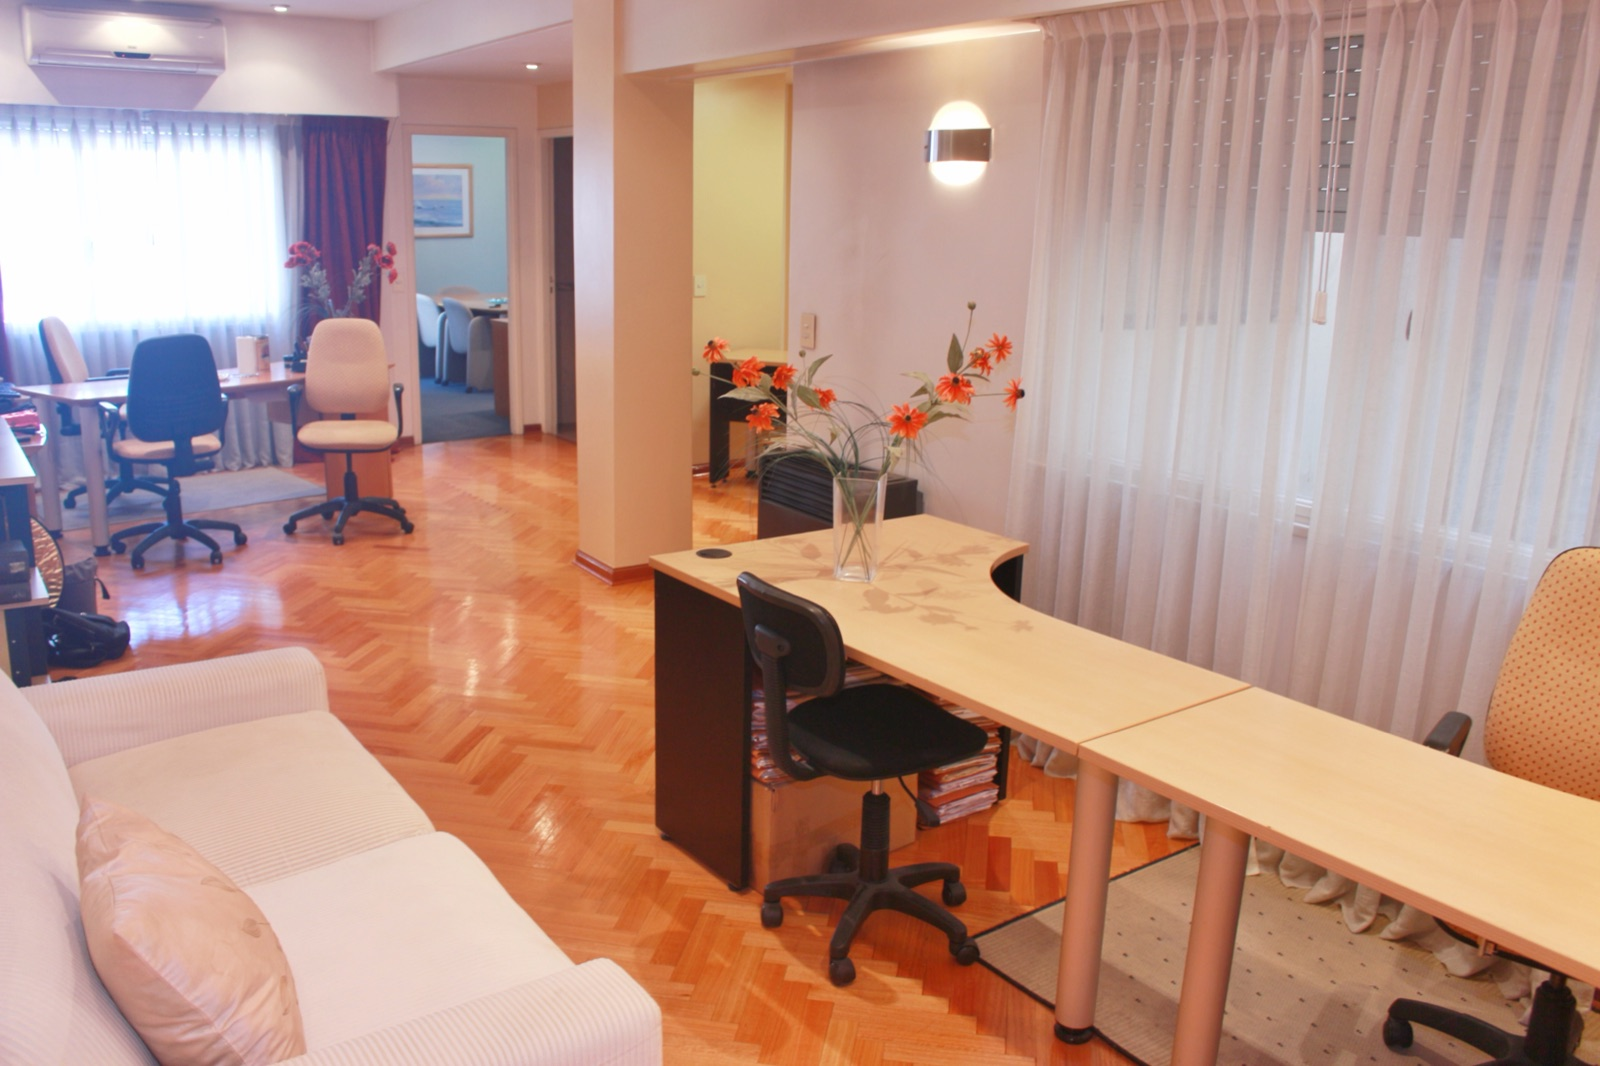
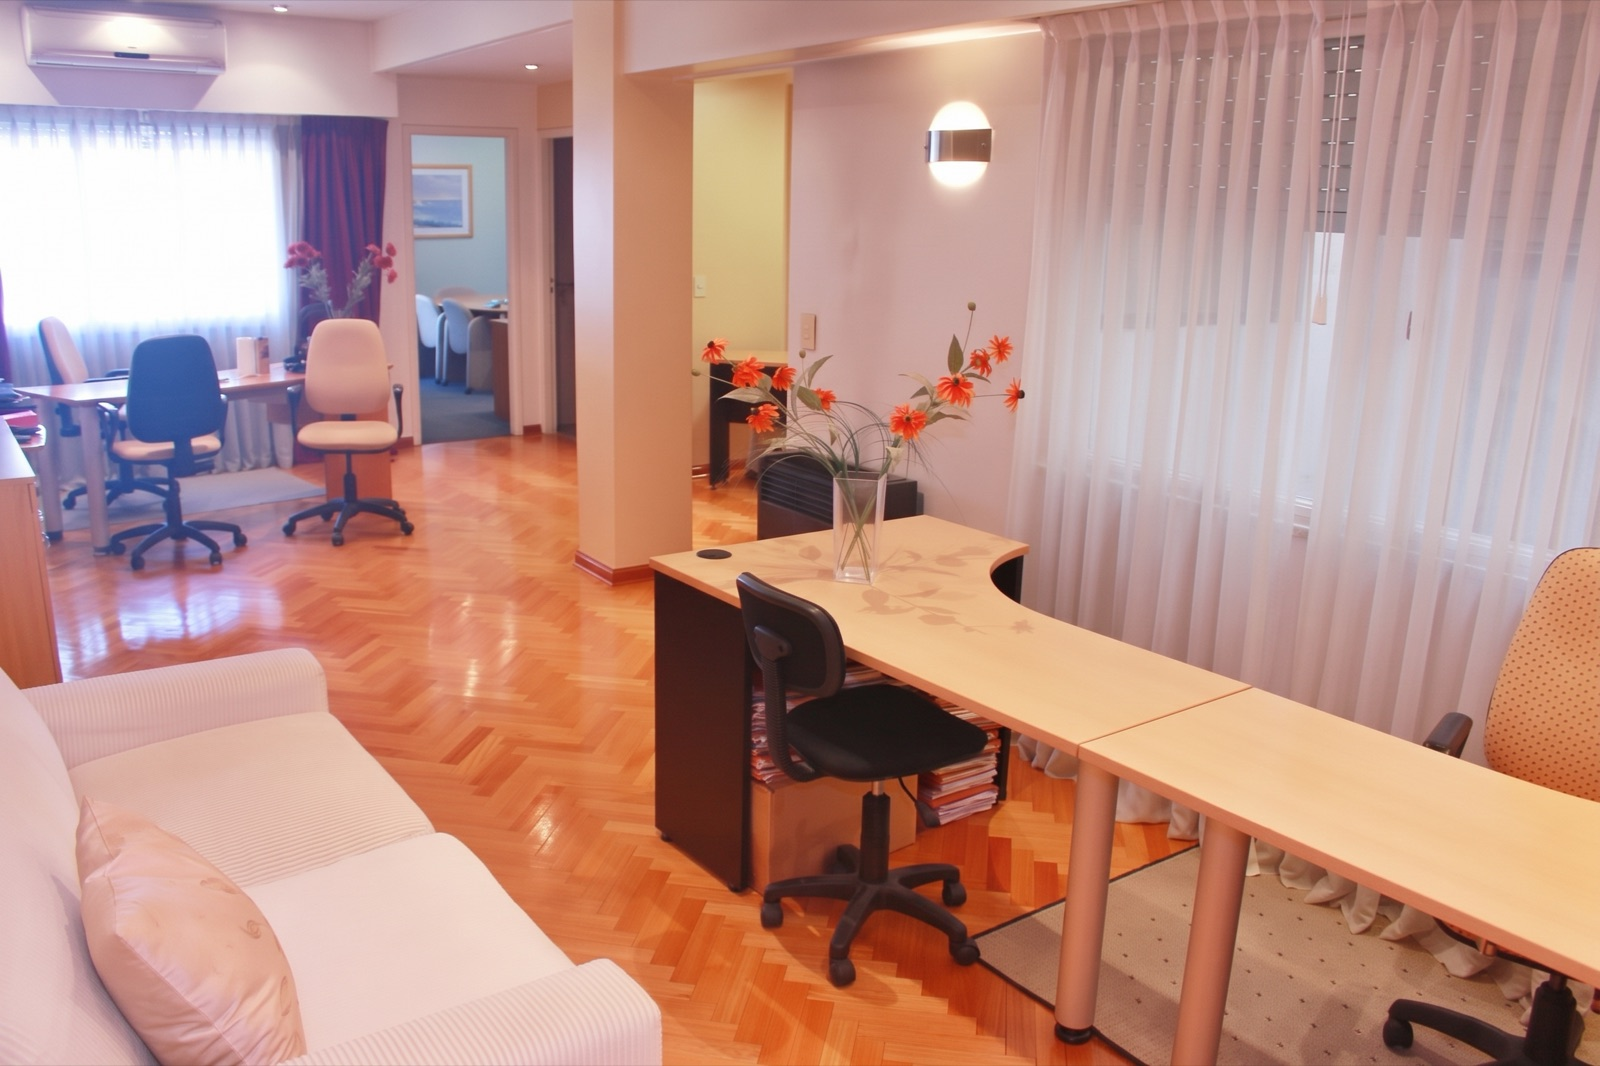
Estudio Ali B: cambios pedidos por Marcela
- La credencial del hero deja de flotar sobre la foto: va debajo con
  filete ambar, como en la A
- La foto con la colaboradora se reemplaza por la reunion de los tres
  (version retocada que mando ella)
- Foto del estudio reemplazada por la version retocada
- Fuera la sede de Calle 10 4719, Berazategui (en A y B)
Pendiente: el celular, para sacar el fijo.

diff --git a/demos/estudio-ali/b/index.html b/demos/estudio-ali/b/index.html
@@ -5,7 +5,7 @@
 <meta name="viewport" content="width=device-width, initial-scale=1.0">
 <meta name="robots" content="noindex, nofollow">
 <title>Estudio Ali & Asociados · Abogados laboralistas · Propuesta B</title>
-<meta name="description" content="Estudio Jurídico Ali & Asociados, especializado en Derecho Laboral A.R.T. Protegiendo tus derechos laborales con experiencia y dedicación. Consultas gratuitas para los trabajadores. Lavalle 1546, CABA. Sedes en Sourigues y Berazategui.">
+<meta name="description" content="Estudio Jurídico Ali & Asociados, especializado en Derecho Laboral A.R.T. Protegiendo tus derechos laborales con experiencia y dedicación. Consultas gratuitas para los trabajadores. Lavalle 1546, CABA. Sedes en Sourigues.">
 <link rel="preconnect" href="https://fonts.googleapis.com">
 <link rel="preconnect" href="https://fonts.gstatic.com" crossorigin>
 <link href="https://fonts.googleapis.com/css2?family=Plus+Jakarta+Sans:wght@400;500;600;700;800&display=swap" rel="stylesheet">
@@ -204,7 +204,7 @@ footer.pie a{color:var(--ink);text-decoration:none}
   .wsp-flotante{width:58px;padding:0;justify-content:center}
 }
 .chat .cab .av{overflow:hidden}.chat .cab .av img{width:100%;height:100%;object-fit:cover}
-.sit .lista{font-size:14px;color:var(--verde-2);font-weight:600}.pasos-grid.sin-linea .paso::after{display:none}.chat-wrap .foto{max-width:460px;width:100%}
+.sit .lista{font-size:14px;color:var(--verde-2);font-weight:600}.pasos-grid.sin-linea .paso::after{display:none}.chat-wrap .foto{max-width:560px;width:100%;aspect-ratio:3/2}
 
 /* WhatsApp con su lenguaje propio: verde oficial #25D366 y glifo oficial.
    Texto casi negro sobre el verde para que se lea bien a los 60. */
@@ -245,12 +245,8 @@ footer.pie a{color:var(--ink);text-decoration:none}
 /* el recurso propio de esta propuesta: la credencial flotando sobre la foto */
 .hero-retrato{position:relative;margin:0}
 .hero-retrato img{width:100%;aspect-ratio:4/5;object-fit:cover;object-position:center 18%;display:block;border-radius:30px;box-shadow:0 26px 60px rgba(22,22,22,.16)}
-.hero-retrato figcaption{
-  position:absolute;left:18px;right:18px;bottom:18px;
-  background:rgba(255,255,255,.95);backdrop-filter:blur(8px);
-  border-radius:18px;padding:15px 20px;box-shadow:0 8px 26px rgba(22,22,22,.12);
-}
-.hero-retrato figcaption b{display:block;font-size:19px;font-weight:800;letter-spacing:-.02em}
+.hero-retrato figcaption{margin-top:16px;padding-top:14px;border-top:2px solid var(--ambar);text-align:left}
+.hero-retrato figcaption b{display:block;font-size:20px;font-weight:800;letter-spacing:-.02em;color:var(--tinta)}
 .hero-retrato figcaption span{display:block;margin-top:3px;font-size:14.5px;color:var(--gris)}
 @media(max-width:940px){
   .hero{grid-template-columns:1fr;gap:36px;padding:44px 0 40px}
@@ -259,7 +255,6 @@ footer.pie a{color:var(--ink);text-decoration:none}
 @media(max-width:600px){
   .hero-retrato{max-width:none;order:-1;margin-bottom:4px}
   .hero-retrato img{aspect-ratio:1;object-position:center 14%;border-radius:22px}
-  .hero-retrato figcaption{left:12px;right:12px;bottom:12px;padding:13px 16px}
   .hero-retrato figcaption b{font-size:17.5px}
 }
 </style>
@@ -280,7 +275,7 @@ footer.pie a{color:var(--ink);text-decoration:none}
     <h1>Protegiendo tus derechos laborales <span>con experiencia y dedicación.</span></h1>
     <p class="lead">Estudio Jurídico Ali &amp; Asociados, especializado en Derecho Laboral y A.R.T.</p>
     <div class="acciones"><a class="btn wsp" href="https://wa.me/541145690939?text=Hola%2C%20quiero%20hacer%20una%20consulta." target="_blank" rel="noopener"><svg viewBox="0 0 32 32"><path d="M16 3C9.4 3 4 8.3 4 14.9c0 2.1.6 4.1 1.6 5.9L4 29l8.4-1.6c1.7.9 3.6 1.4 5.6 1.4 6.6 0 12-5.3 12-11.9S22.6 3 16 3zm0 21.8c-1.8 0-3.5-.5-5-1.3l-.4-.2-5 1 1-4.8-.2-.4c-1-1.6-1.5-3.4-1.5-5.2 0-5.5 4.5-9.9 10-9.9s10 4.4 10 9.9-4.4 9.9-9.9 9.9zm5.5-7.4c-.3-.2-1.8-.9-2-1-.3-.1-.5-.2-.7.2-.2.3-.8 1-.9 1.2-.2.2-.3.2-.6.1-.3-.2-1.3-.5-2.4-1.5-.9-.8-1.5-1.8-1.7-2.1-.2-.3 0-.5.1-.6l.5-.5c.1-.2.2-.3.3-.5.1-.2 0-.4 0-.5l-1-2.3c-.2-.6-.5-.5-.7-.5h-.6c-.2 0-.5.1-.8.4-.3.3-1 1-1 2.5s1.1 2.9 1.2 3.1c.2.2 2.1 3.2 5.1 4.5.7.3 1.3.5 1.7.6.7.2 1.4.2 1.9.1.6-.1 1.8-.7 2-1.4.3-.7.3-1.3.2-1.4-.1-.1-.3-.2-.6-.4z"/></svg>Escribir por WhatsApp</a><span class="o">o llamá al <a href="tel:+541145690939">(011) 4569-0939</a></span></div>
-    <div class="chips"><span class="chip"><i></i>Total confidencialidad</span><span class="chip"><i></i>Más de 30 años</span><span class="chip"><i></i>Abogada UBA</span><span class="chip"><i></i>CABA y Berazategui</span></div>
+    <div class="chips"><span class="chip"><i></i>Total confidencialidad</span><span class="chip"><i></i>Más de 30 años</span><span class="chip"><i></i>Abogada UBA</span><span class="chip"><i></i>CABA y Sourigues</span></div>
    </div>
    <figure class="hero-retrato">
      <img src="/demos/estudio-ali/fotos/marcela-retrato.jpg" alt="Dra. Marcela A. Ali, titular del estudio">
@@ -288,7 +283,7 @@ footer.pie a{color:var(--ink);text-decoration:none}
    </figure>
   </section>
   <div class="chat-wrap" id="acerca">
-    <div class="foto" style="margin:0 auto"><img src="/demos/estudio-ali/fotos/marcela-consulta.jpg" alt="La Dra. Ali atendiendo una consulta"></div>
+    <div class="foto" style="margin:0 auto"><img src="/demos/estudio-ali/fotos/marcela-reunion.jpg" alt="La Dra. Ali en una reunión con una clienta y un colaborador del estudio"></div>
     <div class="chat-texto"><h2>Nuestra Misión</h2><p>Nuestro compromiso es ejercer la profesión con seriedad y creatividad, dentro del contexto que nos imponen las normas vigentes y los principios éticos que rigen nuestra conducta. Nuestros clientes son quienes finalmente califican la calidad de nuestros servicios, por lo que establecer relaciones de largo plazo con ellos es nuestro mayor éxito.</p>
       <ul><li><span class="tick">✓</span><span>El estudio Ali &amp; Asociados fue fundado por la Dra. Marcela A. Ali en el año 2000, quien luego de haber egresado de la Universidad de Buenos Aires en el año 1992, se especializó en derecho del trabajo.</span></li><li><span class="tick">✓</span><span>Ofrecemos consultas gratuitas para los trabajadores.</span></li></ul>
     </div>
@@ -323,7 +318,7 @@ footer.pie a{color:var(--ink);text-decoration:none}
 <div class="wrap">
   <section id="sedes">
     <h2 class="sec">Nos encontrás en</h2>
-    <div class="sedes"><div class="sede"><span class="chip"><i></i>Casa central</span><h3>Lavalle 1546</h3><p>CABA</p><a class="mapa" href="https://www.google.com/maps/search/?api=1&query=Lavalle%201546%2C%20CABA" target="_blank" rel="noopener">Cómo llegar →</a></div><div class="sede"><span class="chip"><i></i>Sede</span><h3>Av. Antártida Argentina 644</h3><p>Sourigues</p><a class="mapa" href="https://www.google.com/maps/search/?api=1&query=Av.%20Ant%C3%A1rtida%20Argentina%20644%2C%20Sourigues%2C%20Berazategui" target="_blank" rel="noopener">Cómo llegar →</a></div><div class="sede"><span class="chip"><i></i>Sede</span><h3>Calle 10 4719</h3><p>Berazategui</p><a class="mapa" href="https://www.google.com/maps/search/?api=1&query=Calle%2010%204719%2C%20Berazategui" target="_blank" rel="noopener">Cómo llegar →</a></div></div>
+    <div class="sedes"><div class="sede"><span class="chip"><i></i>Casa central</span><h3>Lavalle 1546</h3><p>CABA</p><a class="mapa" href="https://www.google.com/maps/search/?api=1&query=Lavalle%201546%2C%20CABA" target="_blank" rel="noopener">Cómo llegar →</a></div><div class="sede"><span class="chip"><i></i>Sede</span><h3>Av. Antártida Argentina 644</h3><p>Sourigues</p><a class="mapa" href="https://www.google.com/maps/search/?api=1&query=Av.%20Ant%C3%A1rtida%20Argentina%20644%2C%20Sourigues%2C%20Berazategui" target="_blank" rel="noopener">Cómo llegar →</a></div></div>
     <p class="horario"><b>Horario:</b> 09:00 a 18:00 · <b>Teléfono:</b> <a href="tel:+541145690939">(011) 4569-0939</a> · <b>Mail de contacto:</b> <a href="mailto:m.ali@estudioali.com.ar">m.ali@estudioali.com.ar</a></p>
   </section>
   <figure class="foto-estudio"><img src="/demos/estudio-ali/fotos/estudio-amplio.jpg" alt="El estudio en Lavalle 1546"><figcaption>El estudio, en Lavalle 1546</figcaption></figure>
@@ -336,7 +331,7 @@ footer.pie a{color:var(--ink);text-decoration:none}
 </div>
 </main>
 <footer class="pie"><div class="wrap">
-  <div><b>Estudio Ali &amp; Asociados</b> · Derecho Laboral A.R.T<br>Lavalle 1546, CABA · Av. Antártida Argentina 644, Sourigues · Calle 10 4719, Berazategui</div>
+  <div><b>Estudio Ali &amp; Asociados</b> · Derecho Laboral A.R.T<br>Lavalle 1546, CABA · Av. Antártida Argentina 644, Sourigues</div>
   <div>Propuesta de diseño B · <a href="https://deceroauno.com.ar">De Cero a Uno</a></div>
 </div></footer>
 <a class="wsp-flotante" href="https://wa.me/541145690939?text=Hola%2C%20quiero%20hacer%20una%20consulta." target="_blank" rel="noopener" aria-label="Consultar por WhatsApp"><svg viewBox="0 0 24 24" aria-hidden="true"><path d="M17.47 14.38c-.3-.15-1.75-.86-2.02-.96-.27-.1-.47-.15-.67.15-.2.3-.77.96-.94 1.16-.17.2-.35.22-.64.08-.3-.15-1.25-.46-2.38-1.47-.88-.78-1.47-1.75-1.65-2.05-.17-.3-.02-.46.13-.6.13-.13.3-.35.45-.52.15-.17.2-.3.3-.5.1-.2.05-.37-.02-.52-.08-.15-.67-1.6-.92-2.2-.24-.57-.49-.5-.67-.5l-.57-.01c-.2 0-.52.07-.79.37-.27.3-1.04 1.02-1.04 2.47 0 1.46 1.06 2.87 1.21 3.07.15.2 2.09 3.2 5.07 4.48.71.3 1.26.49 1.69.63.71.22 1.36.19 1.87.12.57-.09 1.75-.72 2-1.41.25-.69.25-1.29.17-1.41-.07-.13-.27-.2-.57-.35M12.05 21.8h-.02c-1.75 0-3.48-.47-4.99-1.36l-.36-.21-3.71.97.99-3.62-.23-.37a9.86 9.86 0 0 1-1.51-5.26c0-5.45 4.44-9.88 9.9-9.88 2.64 0 5.12 1.03 6.99 2.9a9.82 9.82 0 0 1 2.89 6.99c0 5.45-4.44 9.88-9.89 9.88M20.52 3.45A11.78 11.78 0 0 0 12.05 0C5.5 0 .17 5.33.17 11.88c0 2.1.55 4.14 1.59 5.95L.07 24l6.33-1.66a11.86 11.86 0 0 0 5.65 1.44h.01c6.55 0 11.88-5.33 11.88-11.88 0-3.17-1.24-6.16-3.48-8.4"/></svg><span>Consultar</span></a>

diff --git a/demos/estudio-ali/a/index.html b/demos/estudio-ali/a/index.html
@@ -5,7 +5,7 @@
 <meta name="viewport" content="width=device-width, initial-scale=1.0">
 <meta name="robots" content="noindex, nofollow">
 <title>Estudio Ali & Asociados · Abogados laboralistas · Propuesta A</title>
-<meta name="description" content="Estudio Jurídico Ali & Asociados, especializado en Derecho Laboral A.R.T. Protegiendo tus derechos laborales con experiencia y dedicación. Consultas gratuitas para los trabajadores. Lavalle 1546, CABA. Sedes en Sourigues y Berazategui.">
+<meta name="description" content="Estudio Jurídico Ali & Asociados, especializado en Derecho Laboral A.R.T. Protegiendo tus derechos laborales con experiencia y dedicación. Consultas gratuitas para los trabajadores. Lavalle 1546, CABA. Sedes en Sourigues.">
 <link rel="preconnect" href="https://fonts.googleapis.com">
 <link rel="preconnect" href="https://fonts.gstatic.com" crossorigin>
 <link href="https://fonts.googleapis.com/css2?family=Newsreader:ital,opsz,wght@0,6..72,300..800;1,6..72,300..800&family=IBM+Plex+Sans:wght@400;500;600;700&display=swap" rel="stylesheet">
@@ -238,7 +238,7 @@ header .btn{white-space:nowrap}
 <body>
 
 <div class="prop-bar"><span>Propuesta <b>A · Lavalle</b> de 2 para Estudio Ali &amp; Asociados</span><nav><a class="on" href="/demos/estudio-ali/a">A</a><a href="/demos/estudio-ali/b">B</a><a href="/demos/estudio-ali">Ver las dos</a></nav></div>
-<div class="topbar"><div class="wrap"><span>Casa central: Lavalle 1546, CABA · Sedes en Sourigues y Berazategui · Horario: 09:00 a 18:00</span><span><a href="tel:+541145690939">(011) 4569-0939</a> · <a href="mailto:m.ali@estudioali.com.ar">m.ali@estudioali.com.ar</a></span></div></div>
+<div class="topbar"><div class="wrap"><span>Casa central: Lavalle 1546, CABA · Sedes en Sourigues · Horario: 09:00 a 18:00</span><span><a href="tel:+541145690939">(011) 4569-0939</a> · <a href="mailto:m.ali@estudioali.com.ar">m.ali@estudioali.com.ar</a></span></div></div>
 <header><div class="wrap">
   <a class="logo" href="#"><img src="/demos/estudio-ali/fotos/isologo.jpg" alt="Estudio Jurídico Ali &amp; Asociados"><span>Ali <em>&amp;</em> Asociados<small>Derecho laboral · A.R.T</small></span></a>
   <nav class="menu"><a href="#areas">Áreas</a><a href="#acerca">El estudio</a><a href="#titular">La Dra. Ali</a><a href="#contacto">Contacto</a></nav>
@@ -251,7 +251,7 @@ header .btn{white-space:nowrap}
     <h1>Protegiendo tus derechos laborales <em>con experiencia y dedicación.</em></h1>
     <p class="lead">Nuestro equipo, especializado en derecho laboral, accidentes de trabajo y enfermedades laborales, brinda asesoramiento integral con total confidencialidad.</p>
     <div class="acciones"><a class="btn wsp" href="https://wa.me/541145690939?text=Hola%2C%20quiero%20hacer%20una%20consulta." target="_blank" rel="noopener"><svg viewBox="0 0 32 32"><path d="M16 3C9.4 3 4 8.3 4 14.9c0 2.1.6 4.1 1.6 5.9L4 29l8.4-1.6c1.7.9 3.6 1.4 5.6 1.4 6.6 0 12-5.3 12-11.9S22.6 3 16 3zm0 21.8c-1.8 0-3.5-.5-5-1.3l-.4-.2-5 1 1-4.8-.2-.4c-1-1.6-1.5-3.4-1.5-5.2 0-5.5 4.5-9.9 10-9.9s10 4.4 10 9.9-4.4 9.9-9.9 9.9zm5.5-7.4c-.3-.2-1.8-.9-2-1-.3-.1-.5-.2-.7.2-.2.3-.8 1-.9 1.2-.2.2-.3.2-.6.1-.3-.2-1.3-.5-2.4-1.5-.9-.8-1.5-1.8-1.7-2.1-.2-.3 0-.5.1-.6l.5-.5c.1-.2.2-.3.3-.5.1-.2 0-.4 0-.5l-1-2.3c-.2-.6-.5-.5-.7-.5h-.6c-.2 0-.5.1-.8.4-.3.3-1 1-1 2.5s1.1 2.9 1.2 3.1c.2.2 2.1 3.2 5.1 4.5.7.3 1.3.5 1.7.6.7.2 1.4.2 1.9.1.6-.1 1.8-.7 2-1.4.3-.7.3-1.3.2-1.4-.1-.1-.3-.2-.6-.4z"/></svg>Consultar por WhatsApp</a><a class="btn out" href="tel:+541145690939">Llamar al (011) 4569-0939</a></div>
-    <div class="datos"><div><b>+30</b><span>años ejerciendo la profesión</span></div><div><b>UBA</b><span>egresada en 1992</span></div><div><b>2000</b><span>fundación del estudio</span></div><div><b>3</b><span>sedes: CABA, Sourigues y Berazategui</span></div></div>
+    <div class="datos"><div><b>+30</b><span>años ejerciendo la profesión</span></div><div><b>UBA</b><span>egresada en 1992</span></div><div><b>2000</b><span>fundación del estudio</span></div><div><b>2</b><span>sedes: CABA y Sourigues</span></div></div>
   </div>
   <figure class="retrato"><div class="retrato-img"><img src="/demos/estudio-ali/fotos/marcela-retrato.jpg" alt="Dra. Marcela A. Ali, titular del estudio"></div><figcaption><b>Dra. Marcela A. Ali</b>Titular del Estudio · Abogada (UBA) · Maestría en Derecho Laboral</figcaption></figure>
 </section></div>
@@ -295,8 +295,8 @@ header .btn{white-space:nowrap}
 </section></div>
 <div class="areas"><div class="wrap"><section id="sedes" style="padding:72px 0">
   <p class="kicker">Nos encontrás en</p>
-  <h2 class="sec">Casa central en Tribunales <em>y dos sedes en Berazategui.</em></h2>
-  <div class="sedes"><div class="sede"><p class="kicker">Casa central</p><h3>Lavalle 1546</h3><p>CABA</p><a href="https://www.google.com/maps/search/?api=1&query=Lavalle%201546%2C%20CABA" target="_blank" rel="noopener">Cómo llegar</a></div><div class="sede"><p class="kicker">Sede</p><h3>Av. Antártida Argentina 644</h3><p>Sourigues</p><a href="https://www.google.com/maps/search/?api=1&query=Av.%20Ant%C3%A1rtida%20Argentina%20644%2C%20Sourigues%2C%20Berazategui" target="_blank" rel="noopener">Cómo llegar</a></div><div class="sede"><p class="kicker">Sede</p><h3>Calle 10 4719</h3><p>Berazategui</p><a href="https://www.google.com/maps/search/?api=1&query=Calle%2010%204719%2C%20Berazategui" target="_blank" rel="noopener">Cómo llegar</a></div></div>
+  <h2 class="sec">Casa central en Tribunales <em>y una sede en Sourigues, Berazategui.</em></h2>
+  <div class="sedes"><div class="sede"><p class="kicker">Casa central</p><h3>Lavalle 1546</h3><p>CABA</p><a href="https://www.google.com/maps/search/?api=1&query=Lavalle%201546%2C%20CABA" target="_blank" rel="noopener">Cómo llegar</a></div><div class="sede"><p class="kicker">Sede</p><h3>Av. Antártida Argentina 644</h3><p>Sourigues</p><a href="https://www.google.com/maps/search/?api=1&query=Av.%20Ant%C3%A1rtida%20Argentina%20644%2C%20Sourigues%2C%20Berazategui" target="_blank" rel="noopener">Cómo llegar</a></div></div>
   <p class="horario"><b>Horario:</b> 09:00 a 18:00 · <b>Mail de contacto:</b> <a href="mailto:m.ali@estudioali.com.ar">m.ali@estudioali.com.ar</a></p>
 </section></div></div>
 <section class="cierre" id="contacto"><div class="wrap">
@@ -308,7 +308,7 @@ header .btn{white-space:nowrap}
 </div></section>
 </main>
 <footer class="pie"><div class="wrap">
-  <div><b>Estudio Ali &amp; Asociados</b><br>Lavalle 1546, CABA · Av. Antártida Argentina 644, Sourigues · Calle 10 4719, Berazategui</div>
+  <div><b>Estudio Ali &amp; Asociados</b><br>Lavalle 1546, CABA · Av. Antártida Argentina 644, Sourigues</div>
   <div>Propuesta de diseño A · <a href="https://deceroauno.com.ar">De Cero a Uno</a></div>
 </div></footer>
 <a class="wsp-flotante" href="https://wa.me/541145690939?text=Hola%2C%20quiero%20hacer%20una%20consulta." target="_blank" rel="noopener" aria-label="Consultar por WhatsApp"><svg viewBox="0 0 24 24" aria-hidden="true"><path d="M17.47 14.38c-.3-.15-1.75-.86-2.02-.96-.27-.1-.47-.15-.67.15-.2.3-.77.96-.94 1.16-.17.2-.35.22-.64.08-.3-.15-1.25-.46-2.38-1.47-.88-.78-1.47-1.75-1.65-2.05-.17-.3-.02-.46.13-.6.13-.13.3-.35.45-.52.15-.17.2-.3.3-.5.1-.2.05-.37-.02-.52-.08-.15-.67-1.6-.92-2.2-.24-.57-.49-.5-.67-.5l-.57-.01c-.2 0-.52.07-.79.37-.27.3-1.04 1.02-1.04 2.47 0 1.46 1.06 2.87 1.21 3.07.15.2 2.09 3.2 5.07 4.48.71.3 1.26.49 1.69.63.71.22 1.36.19 1.87.12.57-.09 1.75-.72 2-1.41.25-.69.25-1.29.17-1.41-.07-.13-.27-.2-.57-.35M12.05 21.8h-.02c-1.75 0-3.48-.47-4.99-1.36l-.36-.21-3.71.97.99-3.62-.23-.37a9.86 9.86 0 0 1-1.51-5.26c0-5.45 4.44-9.88 9.9-9.88 2.64 0 5.12 1.03 6.99 2.9a9.82 9.82 0 0 1 2.89 6.99c0 5.45-4.44 9.88-9.89 9.88M20.52 3.45A11.78 11.78 0 0 0 12.05 0C5.5 0 .17 5.33.17 11.88c0 2.1.55 4.14 1.59 5.95L.07 24l6.33-1.66a11.86 11.86 0 0 0 5.65 1.44h.01c6.55 0 11.88-5.33 11.88-11.88 0-3.17-1.24-6.16-3.48-8.4"/></svg><span>Consultar</span></a>
